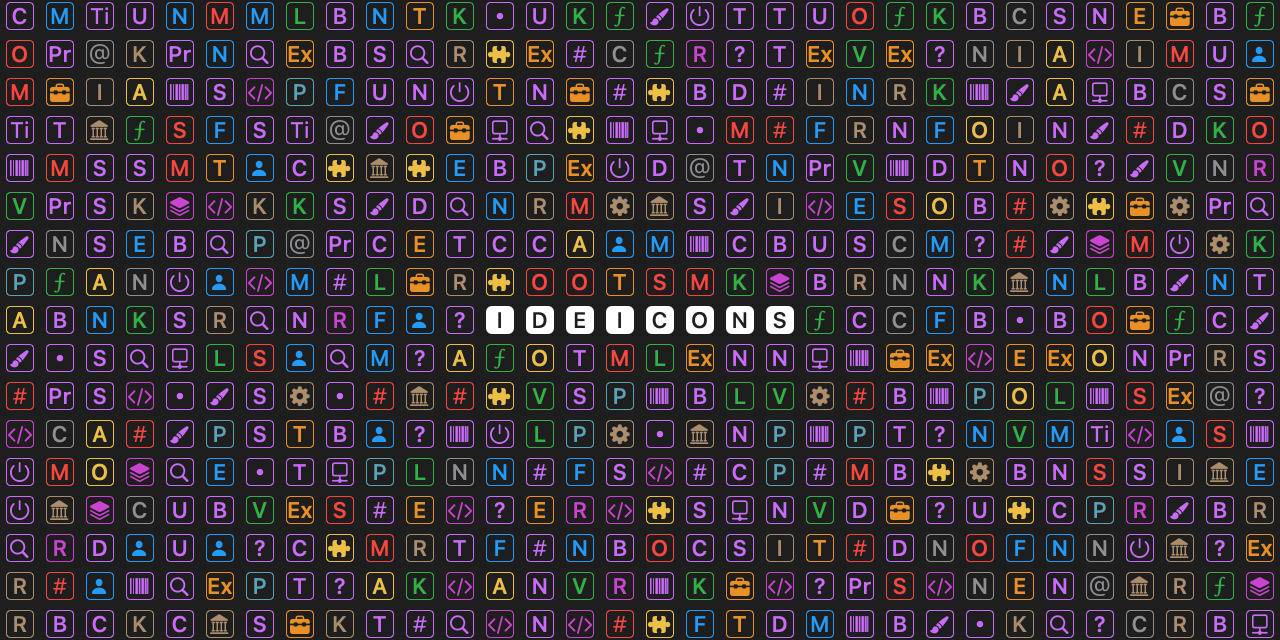
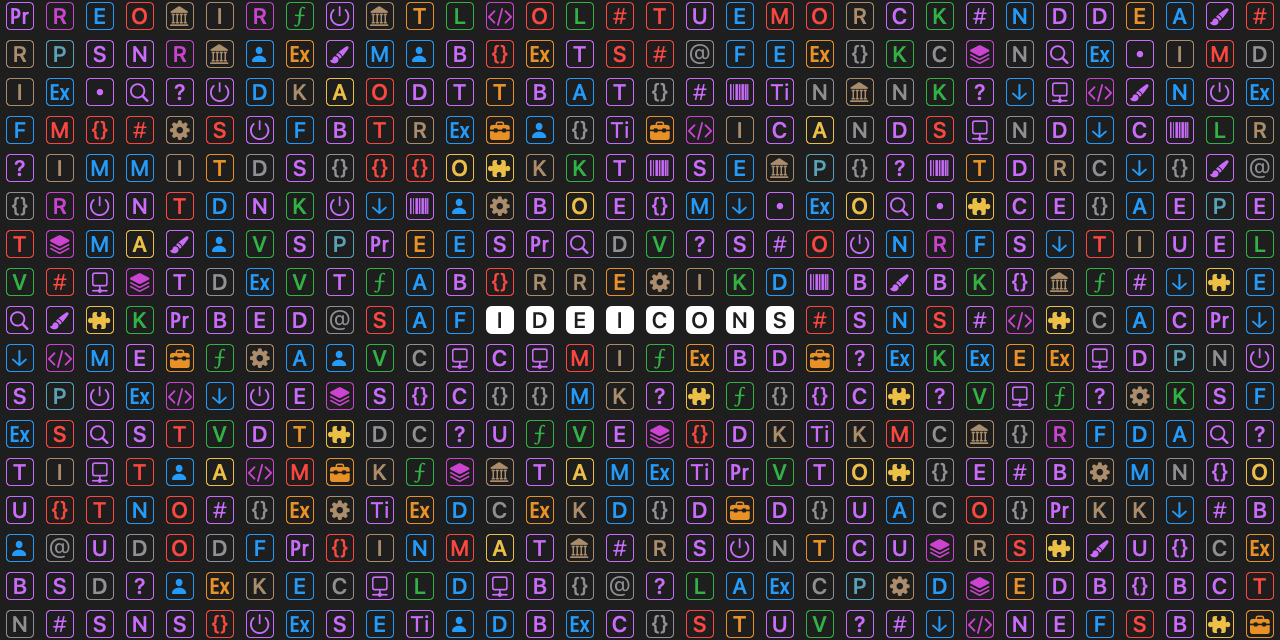
Add shadow; tweak minutiae

Changed region(s): [[0.0, 0.0, 1.0, 1.0], [0.5312, 0.5312, 0.5938, 0.5625]]

diff --git a/Example/IDEIcons+Screenshots.swift b/Example/IDEIcons+Screenshots.swift
@@ -1,5 +1,5 @@
 import SwiftUI
-import IDEIcons
+@testable import IDEIcons
 import Screenshotting
 import ScreenshottingRNG
 
@@ -33,6 +33,10 @@ class IDEIcons_Screenshots: PreviewProvider {
     Alphabet(size: 32)
       .padding()
       .previewDisplayName("Alphabet (32 pt)")
+
+    Pangram()
+      .padding()
+      .previewDisplayName("Pangram")
   }
 
   struct AllPermutations: View {
@@ -61,7 +65,31 @@ class IDEIcons_Screenshots: PreviewProvider {
     var size = IDEIconSize.regular
 
     var body: some View {
-      HStack(spacing: 2) { ForEach(Self.alphabet, id: \.self) { Image(IDEIcon(String($0), size: size)) } }
+      VStack(spacing: 2) {
+        ForEach(IDEIconColor.allCases, id: \.self) { color in
+          HStack(spacing: 2) {
+            ForEach(Self.alphabet, id: \.self) {
+              Image(IDEIcon(String($0), color: color, size: size))
+            }
+          }
+        }
+      }
+    }
+  }
+
+  struct Pangram: View {
+    var size = IDEIconSize.regular
+
+    var body: some View {
+      VStack(spacing: 2) {
+        ForEach(IDEIconColor.allCases, id: \.self) { color in
+          HStack(spacing: 2) {
+            ForEach(exampleIcons.map({ IDEIcon($0.content) }).uniqued(), id: \.self) {
+              Image(IDEIcon($0.content, color: color, size: size))
+            }
+          }
+        }
+      }
     }
   }
 
@@ -146,82 +174,16 @@ class IDEIcons_Screenshots: PreviewProvider {
     //  //return Self.examples.next()
     //}
 
-    static var examples = [
-      IDEIcon("T", color: .orange),
-      IDEIcon("E", color: .orange),
-      IDEIcon("Ex", color: .orange),
-      IDEIcon("K", color: .green),
-      IDEIcon("L", color: .green),
-      IDEIcon("⨍", color: .green),
-      IDEIcon("#", color: .red),
-      IDEIcon("C", color: .purple),
-      IDEIcon("S", color: .purple),
-      IDEIcon("Pr", color: .purple),
-      IDEIcon("M", color: .blue),
-      IDEIcon("P", color: .teal),
-      IDEIcon("R", color: .pink),
-      IDEIcon("V", color: .green),
-      IDEIcon("K", color: .brown),
-      
-      //IDEIcon("@", color: .gray),
-      IDEIcon(systemImage: "at", color: .gray),
-      //IDEIcon("{ }", color: .gray), // FIXME: looks bad w/ expanded/condensed
-      //IDEIcon(systemImage: "list.bullet", color: .monochrome),
-
-      IDEIcon("N", color: .purple),
-      IDEIcon("S", color: .purple),
-      IDEIcon("B", color: .purple),
-      IDEIcon("D", color: .purple),
-      IDEIcon(systemImage: "power", color: .purple),
-      IDEIcon("#", color: .purple),
-      IDEIcon(systemImage: "barcode", color: .purple),
-      IDEIcon("U", color: .purple),
-      IDEIcon("T", color: .purple),
-      IDEIcon("Ti", color: .purple),
-      IDEIcon("?", color: .purple),
-      IDEIcon("O", color: .red),
-      IDEIcon("M", color: .red),
-      IDEIcon("E", color: .blue),
-      IDEIcon("F", color: .blue),
-      IDEIcon("C", color: .gray),
-      IDEIcon("R", color: .brown),
-      IDEIcon("I", color: .brown),
-
-      IDEIcon("O", color: .yellow),
-      IDEIcon("A", color: .yellow),
-      IDEIcon("S", color: .red),
-      IDEIcon("N", color: .blue),
-      IDEIcon("B", color: .purple),
-      IDEIcon("N", color: .gray),
-
-      IDEIcon("•", color: .purple),
-      IDEIcon(systemImage: "rectangle.connected.to.line.below", color: .purple),
-      IDEIcon(systemImage: "magnifyingglass", color: .purple),
-
-      IDEIcon(systemImage: "gearshape.fill", color: .brown),
-      IDEIcon(systemImage: "building.columns.fill", color: .brown),
-      IDEIcon(systemImage: "puzzlepiece.fill", color: .yellow),
-      IDEIcon(systemImage: "paintbrush.pointed.fill", color: .purple),
-      IDEIcon(systemImage: "square.stack.3d.up.fill", color: .pink),
-      IDEIcon(systemImage: "chevron.left.forwardslash.chevron.right", color: .pink),
-      IDEIcon(systemImage: "latch.2.case.fill", color: .orange),
-      IDEIcon(systemImage: "person.fill", color: .blue),
-
-      //IDEIcon(systemImage: "tablecells", color: .teal),
-      //IDEIcon(systemImage: "rectangle.and.text.magnifyingglass", color: .teal),
-      //IDEIcon(systemImage: "scroll", color: .orange),
-      //IDEIcon(systemImage: "bolt.fill", color: .orange),
-    ]
-      .flatMap {
-        var o = $0
-        o.style = .outline
-        //var s = $0
-        //s.style = .simple
-        //return [s]
-        return [o]
-        //return [$0, o]
-        //return [s, $0, o]
-      }
+    static var examples = exampleIcons.flatMap {
+      var o = $0
+      o.style = .outline
+      //var s = $0
+      //s.style = .simple
+      //return [s]
+      return [o]
+      //return [$0, o]
+      //return [s, $0, o]
+    }
   }
 }
 
@@ -232,6 +194,84 @@ extension String {
     return (0..<26).map { i in Character(Unicode.Scalar(aCode + i) ?? aScalars[aScalars.startIndex]) }
   }
 }
+
+fileprivate let exampleIcons = [
+  IDEIcon("T", color: .orange),
+  IDEIcon("E", color: .orange),
+  IDEIcon("Ex", color: .orange),
+  IDEIcon("K", color: .green),
+  IDEIcon("L", color: .green),
+  IDEIcon("⨍", color: .green),
+  IDEIcon("#", color: .red),
+  IDEIcon("C", color: .purple),
+  IDEIcon("S", color: .purple),
+  IDEIcon("Pr", color: .purple),
+  IDEIcon("M", color: .blue),
+  IDEIcon("P", color: .teal),
+  IDEIcon("R", color: .pink),
+  IDEIcon("V", color: .green),
+  IDEIcon("K", color: .brown),
+
+  //IDEIcon("@", color: .gray),
+  IDEIcon(systemImage: "at", color: .gray),
+  IDEIcon("{}", color: .gray), // FIXME: looks bad w/ expanded/condensed
+  //IDEIcon(systemImage: "list.bullet", color: .monochrome),
+
+  IDEIcon("N", color: .purple),
+  IDEIcon("S", color: .purple),
+  IDEIcon("B", color: .purple),
+  IDEIcon("D", color: .purple),
+  IDEIcon(systemImage: "power", color: .purple),
+  IDEIcon("#", color: .purple),
+  IDEIcon(systemImage: "barcode", color: .purple),
+  IDEIcon("U", color: .purple),
+  IDEIcon("T", color: .purple),
+  IDEIcon("Ti", color: .purple),
+  IDEIcon("?", color: .purple),
+  IDEIcon("O", color: .red),
+  IDEIcon("M", color: .red),
+  IDEIcon("E", color: .blue),
+  IDEIcon("F", color: .blue),
+  IDEIcon("C", color: .gray),
+  IDEIcon("R", color: .brown),
+  IDEIcon("I", color: .brown),
+
+  IDEIcon("O", color: .yellow),
+  IDEIcon("A", color: .yellow),
+  IDEIcon("S", color: .red),
+  IDEIcon("N", color: .blue),
+  IDEIcon("B", color: .purple),
+  IDEIcon("N", color: .gray),
+
+  IDEIcon("•", color: .purple),
+  IDEIcon(systemImage: "rectangle.connected.to.line.below", color: .purple),
+  IDEIcon(systemImage: "magnifyingglass", color: .purple),
+
+  IDEIcon(systemImage: "gearshape.fill", color: .brown),
+  IDEIcon(systemImage: "building.columns.fill", color: .brown),
+  IDEIcon(systemImage: "puzzlepiece.fill", color: .yellow),
+  IDEIcon(systemImage: "paintbrush.pointed.fill", color: .purple),
+  IDEIcon(systemImage: "square.stack.3d.up.fill", color: .pink),
+  IDEIcon(systemImage: "chevron.left.forwardslash.chevron.right", color: .pink),
+  IDEIcon(systemImage: "latch.2.case.fill", color: .orange),
+  IDEIcon(systemImage: "person.fill", color: .blue),
+
+  IDEIcon("E", color: .purple),
+  IDEIcon("{}", color: .purple),
+  IDEIcon("{}", color: .red),
+  IDEIcon("{}", color: .monochrome),
+  IDEIcon(systemImage: "arrow.down", color: .blue),
+  IDEIcon("T", color: .red),
+  IDEIcon("D", color: .blue),
+  IDEIcon("Ex", color: .blue),
+  IDEIcon("A", color: .blue),
+  IDEIcon("D", color: .monochrome),
+
+  //IDEIcon(systemImage: "tablecells", color: .teal),
+  //IDEIcon(systemImage: "rectangle.and.text.magnifyingglass", color: .teal),
+  //IDEIcon(systemImage: "scroll", color: .orange),
+  //IDEIcon(systemImage: "bolt.fill", color: .orange),
+]
 
 //struct ColorEnum: View {
 //  var body: some View {
@@ -257,3 +297,10 @@ extension String {
 //    .fixedSize()
 //  }
 //}
+
+extension Sequence where Element: Hashable {
+  func uniqued() -> [Element] {
+    var set = Set<Element>()
+    return filter { set.insert($0).inserted }
+  }
+}

diff --git a/Sources/IDEIcons/IDEIcon+Image.swift b/Sources/IDEIcons/IDEIcon+Image.swift
@@ -183,9 +183,16 @@ public extension IDEIcon {
 //    let deviceBounds = context.convertToDeviceSpace(bounds)
 //    let scale = deviceBounds.size.height / bounds.size.height
 
+    // TODO: make shadow configurable
+    if style == .default, color != .monochrome {
+      context.setShadow(offset: .zero, blur: 2, color: .init(gray: 0, alpha: colorScheme == .dark ? 1 : 0.5))
+    }
+
     // TODO: selectively apply expanded and condensed based on content (e.g. ‘C’ and ‘S’ should be expanded)
     // TODO: realize that the icons in Xcode seem completely arbitrary in which are expanded and which aren’t
+    // TODO: clean this up and get it all in ship shape for 1.0 release
 
+    let condensed: Bool
     let font: PlatformFont
     // if case .text(let string) = content, style != .simple, style != .simpleHighlighted {
     //   if string.count == 1 {
@@ -199,7 +206,13 @@ public extension IDEIcon {
     //     font = PlatformFont(name: "SFPro-CondensedMedium", size: fontSize + fontSizeAdjustment)!
     //   }
     // } else {
+    if ![.simple, .simpleHighlighted].contains(style), case .text(let s) = content, ["Ex", "Pr"].contains(s) {
+      font = PlatformFont(name: "SFPro-CondensedMedium", size: fontSize + fontSizeAdjustment)!
+      condensed = true
+    } else {
       font = PlatformFont.systemFont(ofSize: fontSize + fontSizeAdjustment, weight: fontWeight)
+      condensed = false
+    }
     // }
 
     //var font = PlatformFont.systemFont(ofSize: fontSize + fontSizeAdjustment, weight: fontWeight)
@@ -232,7 +245,9 @@ public extension IDEIcon {
     }
 
 #if !os(macOS)
-    let yOffsetAdjustment = yOffsetAdjustment * -1
+    var yOffsetAdjustment = yOffsetAdjustment * -1
+#else
+    var yOffsetAdjustment = yOffsetAdjustment
 #endif
 
     let symbolFrame = bounds
@@ -245,6 +260,8 @@ public extension IDEIcon {
 
     switch content {
     case .text(let string):
+      if size >= IDEIconSize.large { yOffsetAdjustment -= 1 }
+
       let paragraphStyle = NSMutableParagraphStyle()
       paragraphStyle.alignment = .center
 //      paragraphStyle.minimumLineHeight = size - borderWidth * 2 - outlineWidth * 2
@@ -259,11 +276,13 @@ public extension IDEIcon {
 
       //let dy = (symbolFrame.height - attributedString.size().height) / 2
       //let textFrame = symbolFrame.integral.offsetBy(dx: 0, dy: yOffsetAdjustment - dy)
-      let textFrame = attributedString.size().centered(in: symbolFrame).integral.offsetBy(dx: 0, dy: yOffsetAdjustment)
+      var textFrame = attributedString.size().centered(in: symbolFrame).integral.offsetBy(dx: 0, dy: yOffsetAdjustment)
 
       //if string.count == 1 {
       //if string != "•", style != .simple, style != .simpleHighlighted {
-      //  textFrame = textFrame.offsetBy(dx: 0, dy: -1)
+      if condensed, size < IDEIconSize.large {
+        textFrame = textFrame.offsetBy(dx: 0, dy: -1)
+      }
       //}
       //}
 

diff --git a/Sources/IDEIcons/IDEIcon.swift b/Sources/IDEIcons/IDEIcon.swift
@@ -59,9 +59,27 @@ public enum IDEIconContent: Hashable {
   /// Image content.
   case image(String, bundle: Bundle?)
 
-  /// System symbol image content.
+  /// System image content.
   case systemImage(String)
+
+//  /// Graphic content that is part of IDE Icons.
+//  case graphic(IDEIconGraphic)
 }
+
+///// Specifies the graphic of an IDE icon.
+//public enum IDEIconGraphic: Hashable {
+//  /// Three vertical bars, the middle one filled with the current accent color.
+//  case threeBars
+//
+//  /// Three bulleted list items.
+//  case list
+//
+//  /// The letter C with a line underneath.
+//  case underlinedC
+//
+//  /// A bandage.
+//  case bandage
+//}
 
 // TODO: rename default to bordered (and then outline to outlined?)?
 // TODO: add shadow style (as seen in web inspector)
@@ -73,6 +91,7 @@ public enum IDEIconStyle: Int, CaseIterable {
   case `default`, outline, simple, simpleHighlighted
 
   // TODO: consider using this instead but then hashing won’t work automatically
+  // (maybe add `isHighlighted` and a convenience `withHighlight()` to `IDEIcon` itself?
   //  case `default`, outline, simple(isHighlighted: Bool = false)
   //
   //  public static var allCases: [IDEIconStyle] {

diff --git a/Sources/IDEIcons/IDEIcon+Adjustments.swift b/Sources/IDEIcons/IDEIcon+Adjustments.swift
@@ -22,7 +22,7 @@ extension IDEIcon {
     case .text(let string):
       switch string {
       case "@": return 1
-      case "{}", "{ }": return -1
+      case "{}": return -1
       //case "#": return 2.5
       //case "Ti": return 0.5
       case "⨍": return 0
@@ -51,7 +51,7 @@ extension IDEIcon {
         switch string {
         case "@": return 1
         case "#": return 0
-        case "{}", "{ }": return 1
+        case "{}": return 0
         case "⨍": return 1
           // case "": xOffset = 0.5
         case "•": return 1
@@ -60,10 +60,11 @@ extension IDEIcon {
         }
       } else {
         switch string {
-        case "@": return 4
-        case "#": return 3
-        case "{}", "{ }": return 2.5
-        case "⨍": return 4.5
+        case "@": return 3
+        case "#": return 0
+        case "•": return 3
+        case "{}": return 2
+        case "⨍": return 3.5
           //      case "Ti": return -2
         default: break
         }

diff --git a/Example/IDEIconsExampleApp.swift b/Example/IDEIconsExampleApp.swift
@@ -4,9 +4,11 @@ import SwiftUI
 struct IDEIconsExampleApp: App {
   var body: some Scene {
     WindowGroup {
-      HStack {
+      VStack {
         //IDEIcons_Screenshots._allPreviews[0].content
-        IDEIcons_Screenshots.previews
+        //IDEIcons_Screenshots.previews
+        IDEIcons_Screenshots.Pangram()
+        IDEIcons_Screenshots.Pangram(size: 32)
       }
       .frame(maxWidth: .infinity, maxHeight: .infinity)
       .background(.gray.opacity(0.5))
